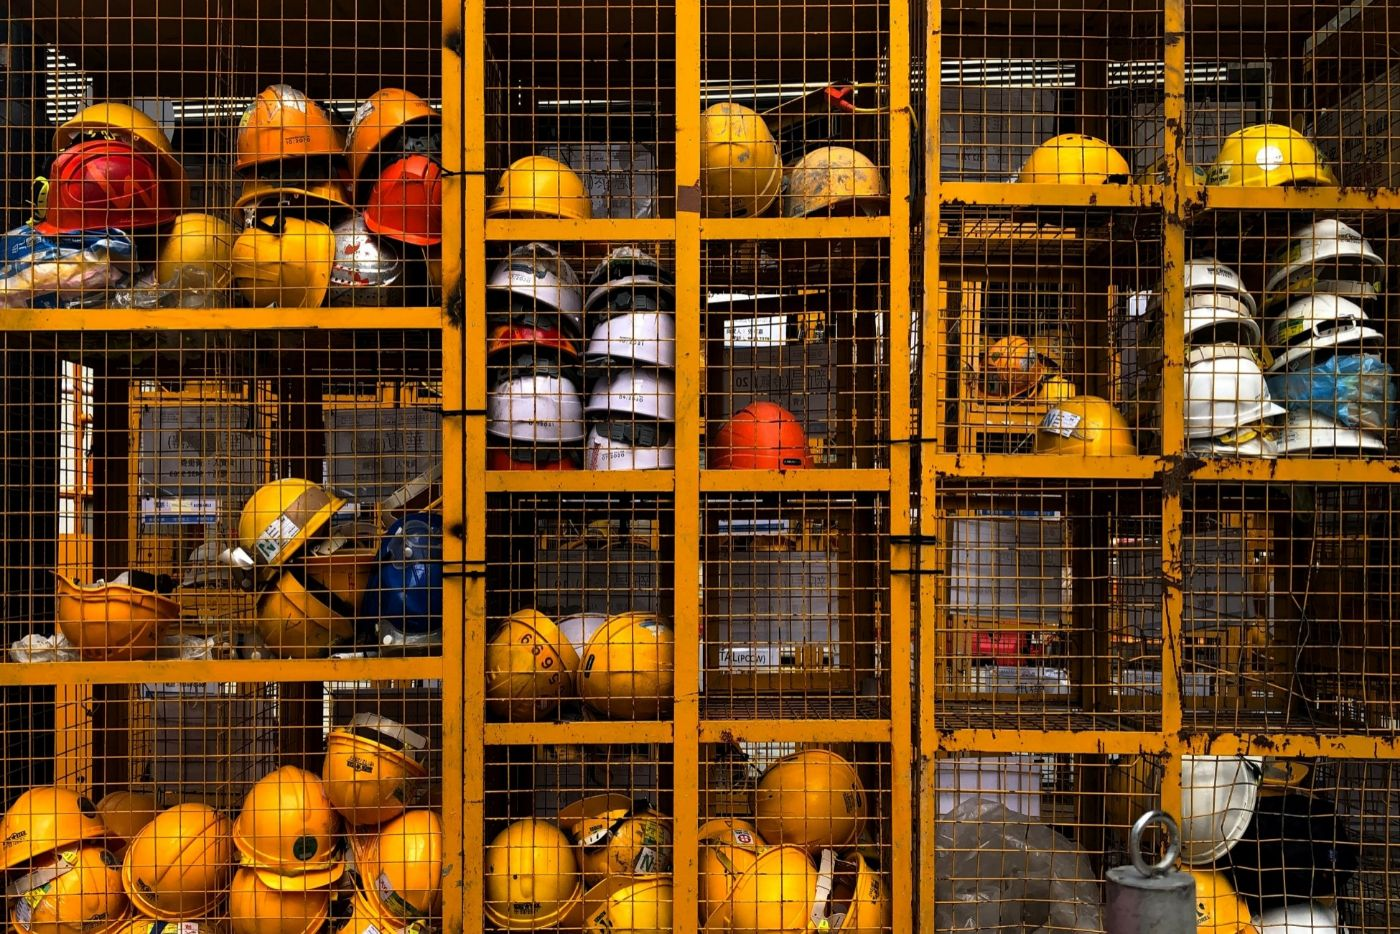
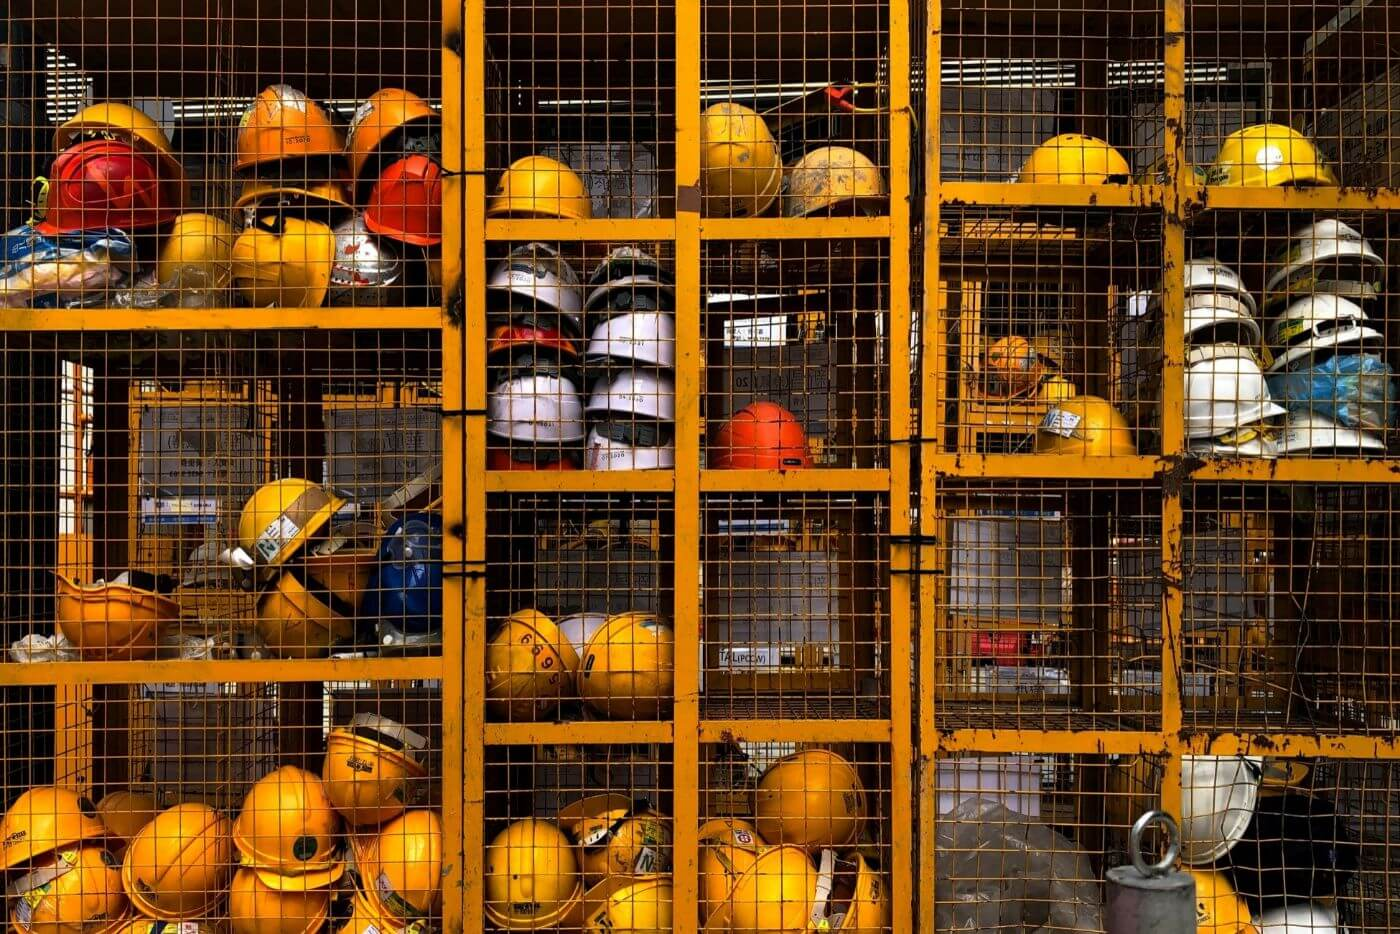
jpg compress and about us title replace

diff --git a/src/components/Header.vue b/src/components/Header.vue
@@ -4,7 +4,7 @@
             <div class="d-flex flex-row justify-content-between">
                 <ul class="list-unstyled font-weight-bold">
                     <li><g-link to="/">ГЛАВНАЯ</g-link></li>
-                    <li><g-link to="/about">О КОМПАНИИ</g-link></li>
+                    <li><g-link to="/about">О НАС</g-link></li>
                     <li><g-link to="/portfolio">УСЛУГИ</g-link></li>
                     <li><g-link to="/blog">БЛОГ</g-link></li>
                     <li><g-link to="/contact">КОНТАКТЫ</g-link></li>
